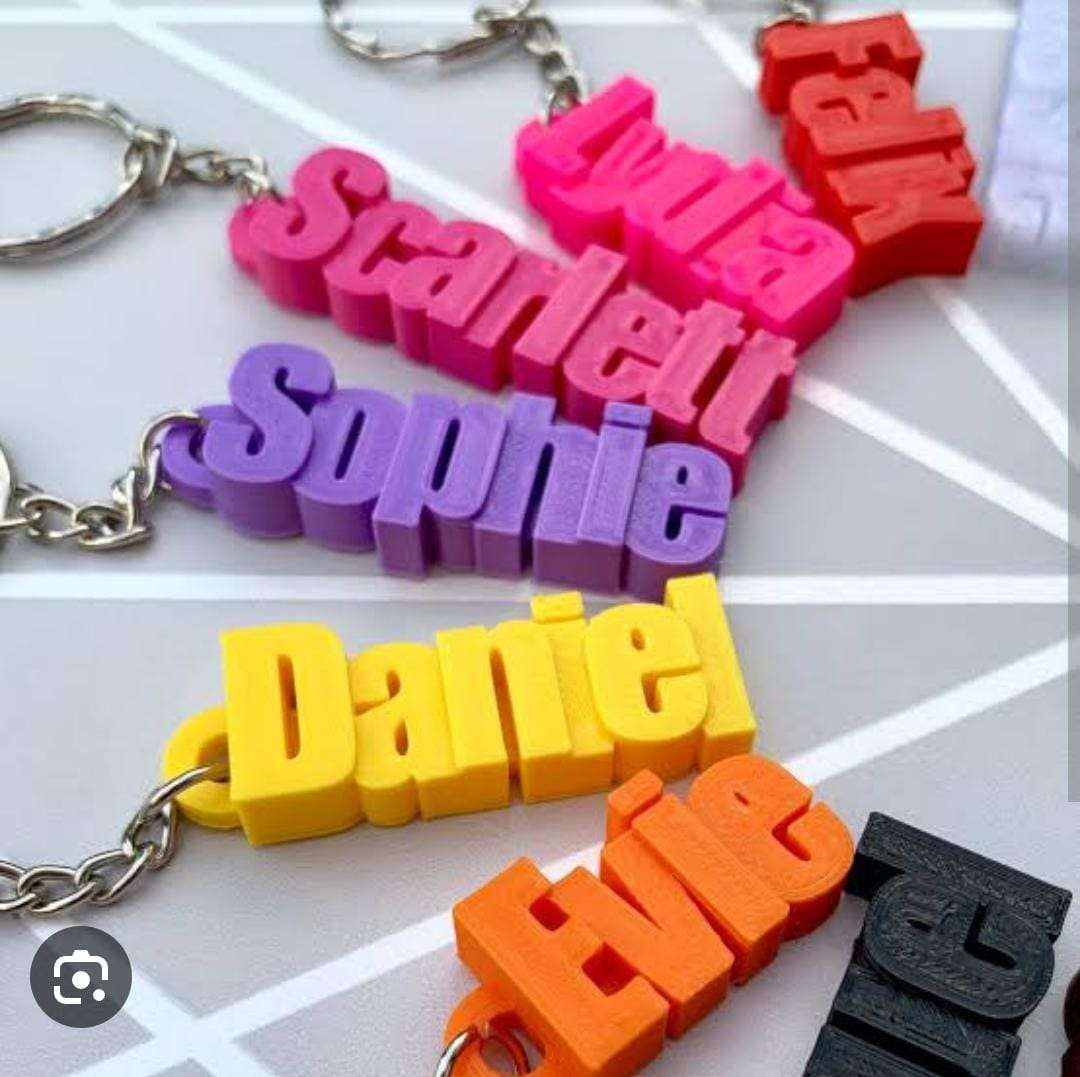
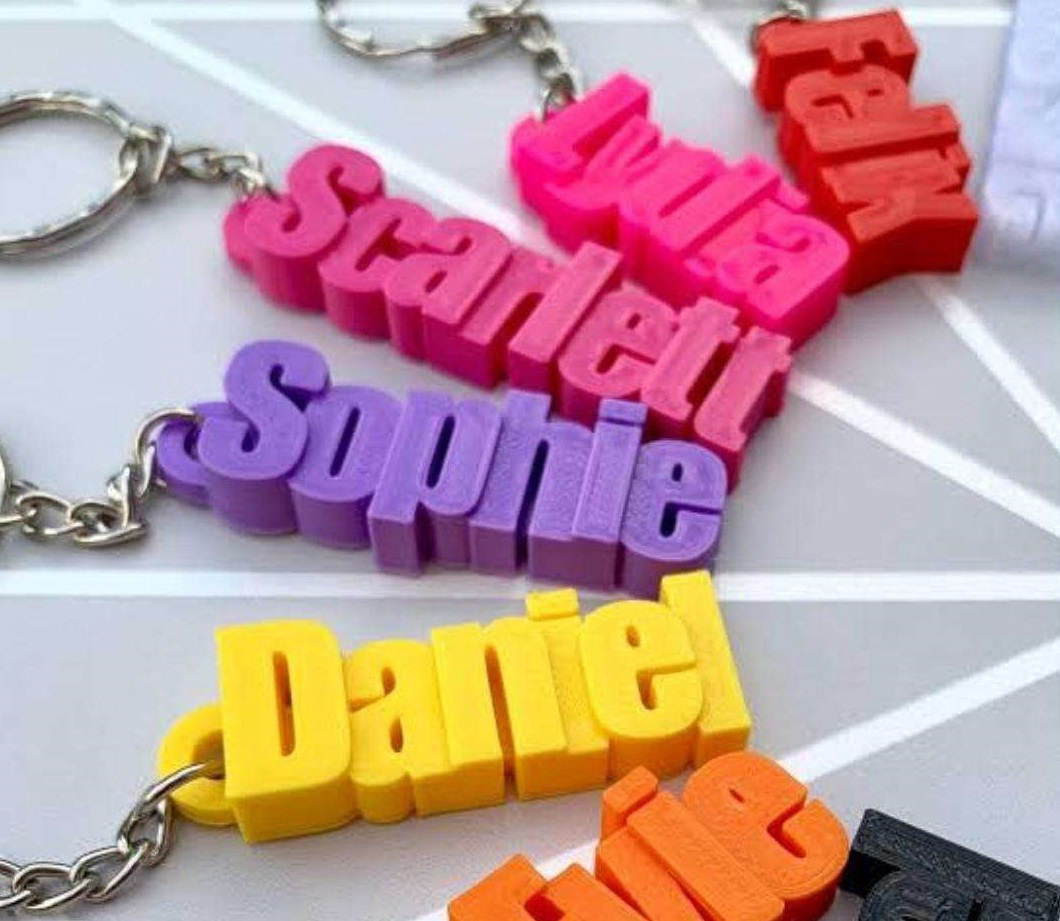
New Team Member Added
Key chain image was cropped
schandan was added
dual letter was renamed to 3d flip name.

diff --git a/index.html b/index.html
@@ -357,7 +357,7 @@
             <div class="portfolio-wrap">
               <img src="assets/img/portfolio/dual_letter.jpeg" class="img-fluid" alt="">
               <div class="portfolio-info">
-                <h4>Dual Letter</h4>
+                <h4>3D Flip Name</h4>
                 <p>&#8377; 450</p>
                 <!-- <div class="portfolio-links">
                   <a href="assets/img/portfolio/portfolio-5.jpg" data-gallery="portfolioGallery" class="portfolio-lightbox" title="Web 2"><i class="bx bx-plus"></i></a>
@@ -415,6 +415,24 @@
               <div class="member-info">
                 <h4>Vibhav Gopinath</h4>
                 <span>Marketing Maestro</span>
+              </div>
+            </div>
+          </div>
+
+          <div class="col-lg-3 col-md-6 d-flex align-items-stretch aos-init aos-animate" data-aos="fade-up" data-aos-delay="100">
+            <div class="member">
+              <div class="member-img">
+                <img src="assets/img/team/schandan_advisor.jpg" class="img-fluid" alt="">
+                <!-- <div class="social">
+                  <a href=""><i class="bi bi-twitter"></i></a>
+                  <a href=""><i class="bi bi-facebook"></i></a>
+                  <a href=""><i class="bi bi-instagram"></i></a>
+                  <a href=""><i class="bi bi-linkedin"></i></a>
+                </div> -->
+              </div>
+              <div class="member-info">
+                <h4>Schandan Saravanan</h4>
+                <span>Strategic Advisor</span>
               </div>
             </div>
           </div>
